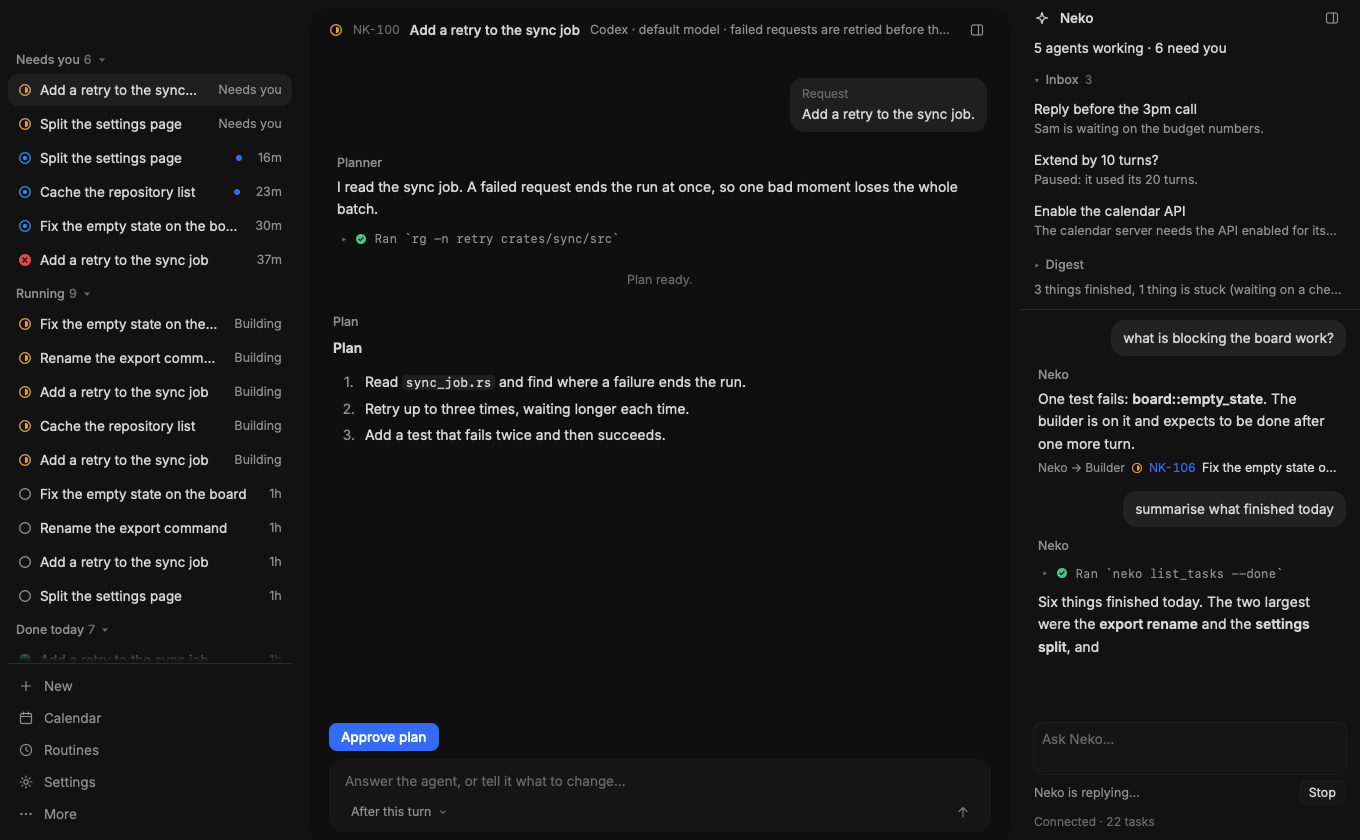
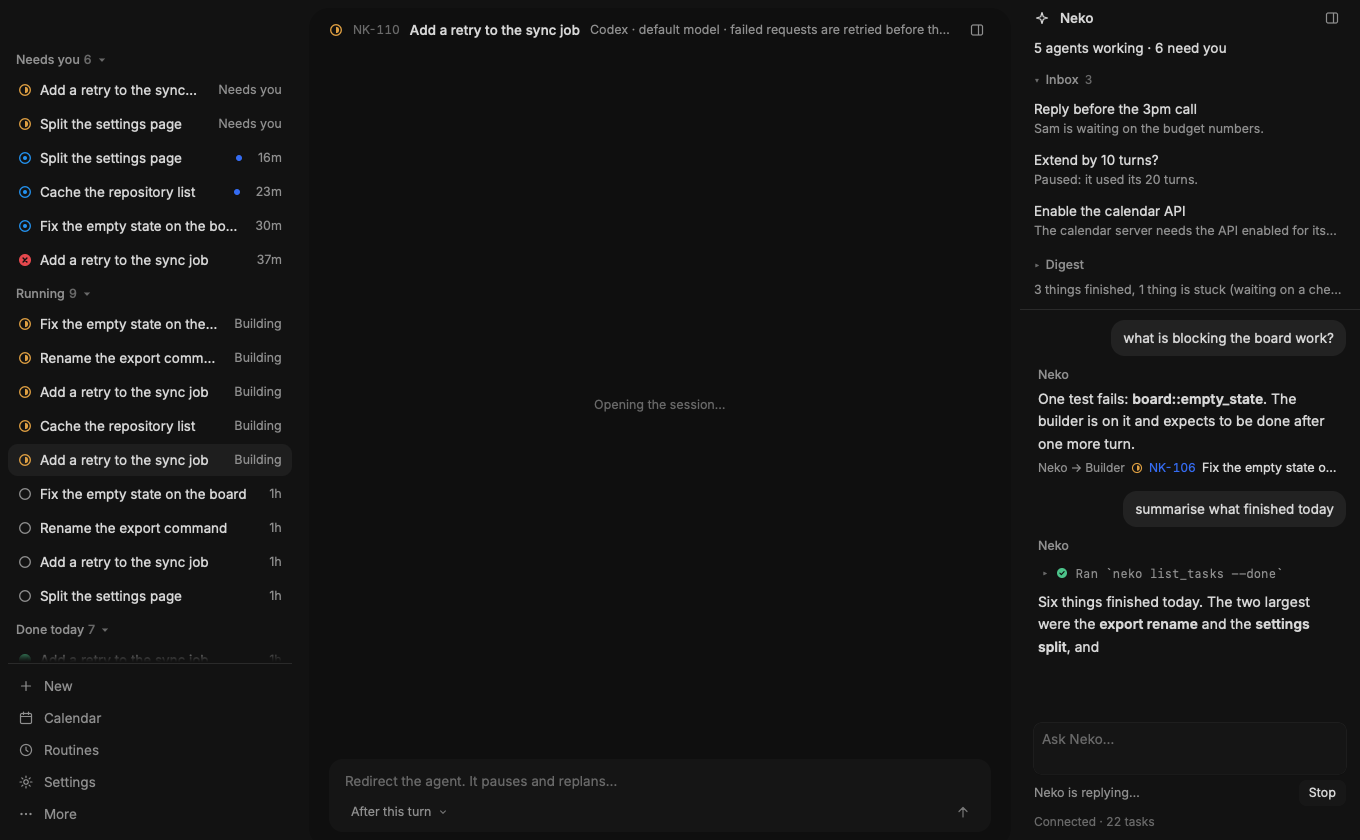
docs(rune): the auto-closed scene shows a session with nothing to show

diff --git a/apps/neko-rune/src/scenes_panel.rs b/apps/neko-rune/src/scenes_panel.rs
@@ -97,9 +97,11 @@ pub fn auto_diff(s: &mut App) {
     s.panel_on_select();
 }
 
+/// A session that has produced nothing: choosing it leaves no panel.
 pub fn auto_closed(s: &mut App) {
     super::scenes::live_for_pages(s);
-    s.panel_on_select();
+    s.layout.context.set_open(true);
+    s.select("t10");
 }
 
 pub fn diff(s: &mut App) {
